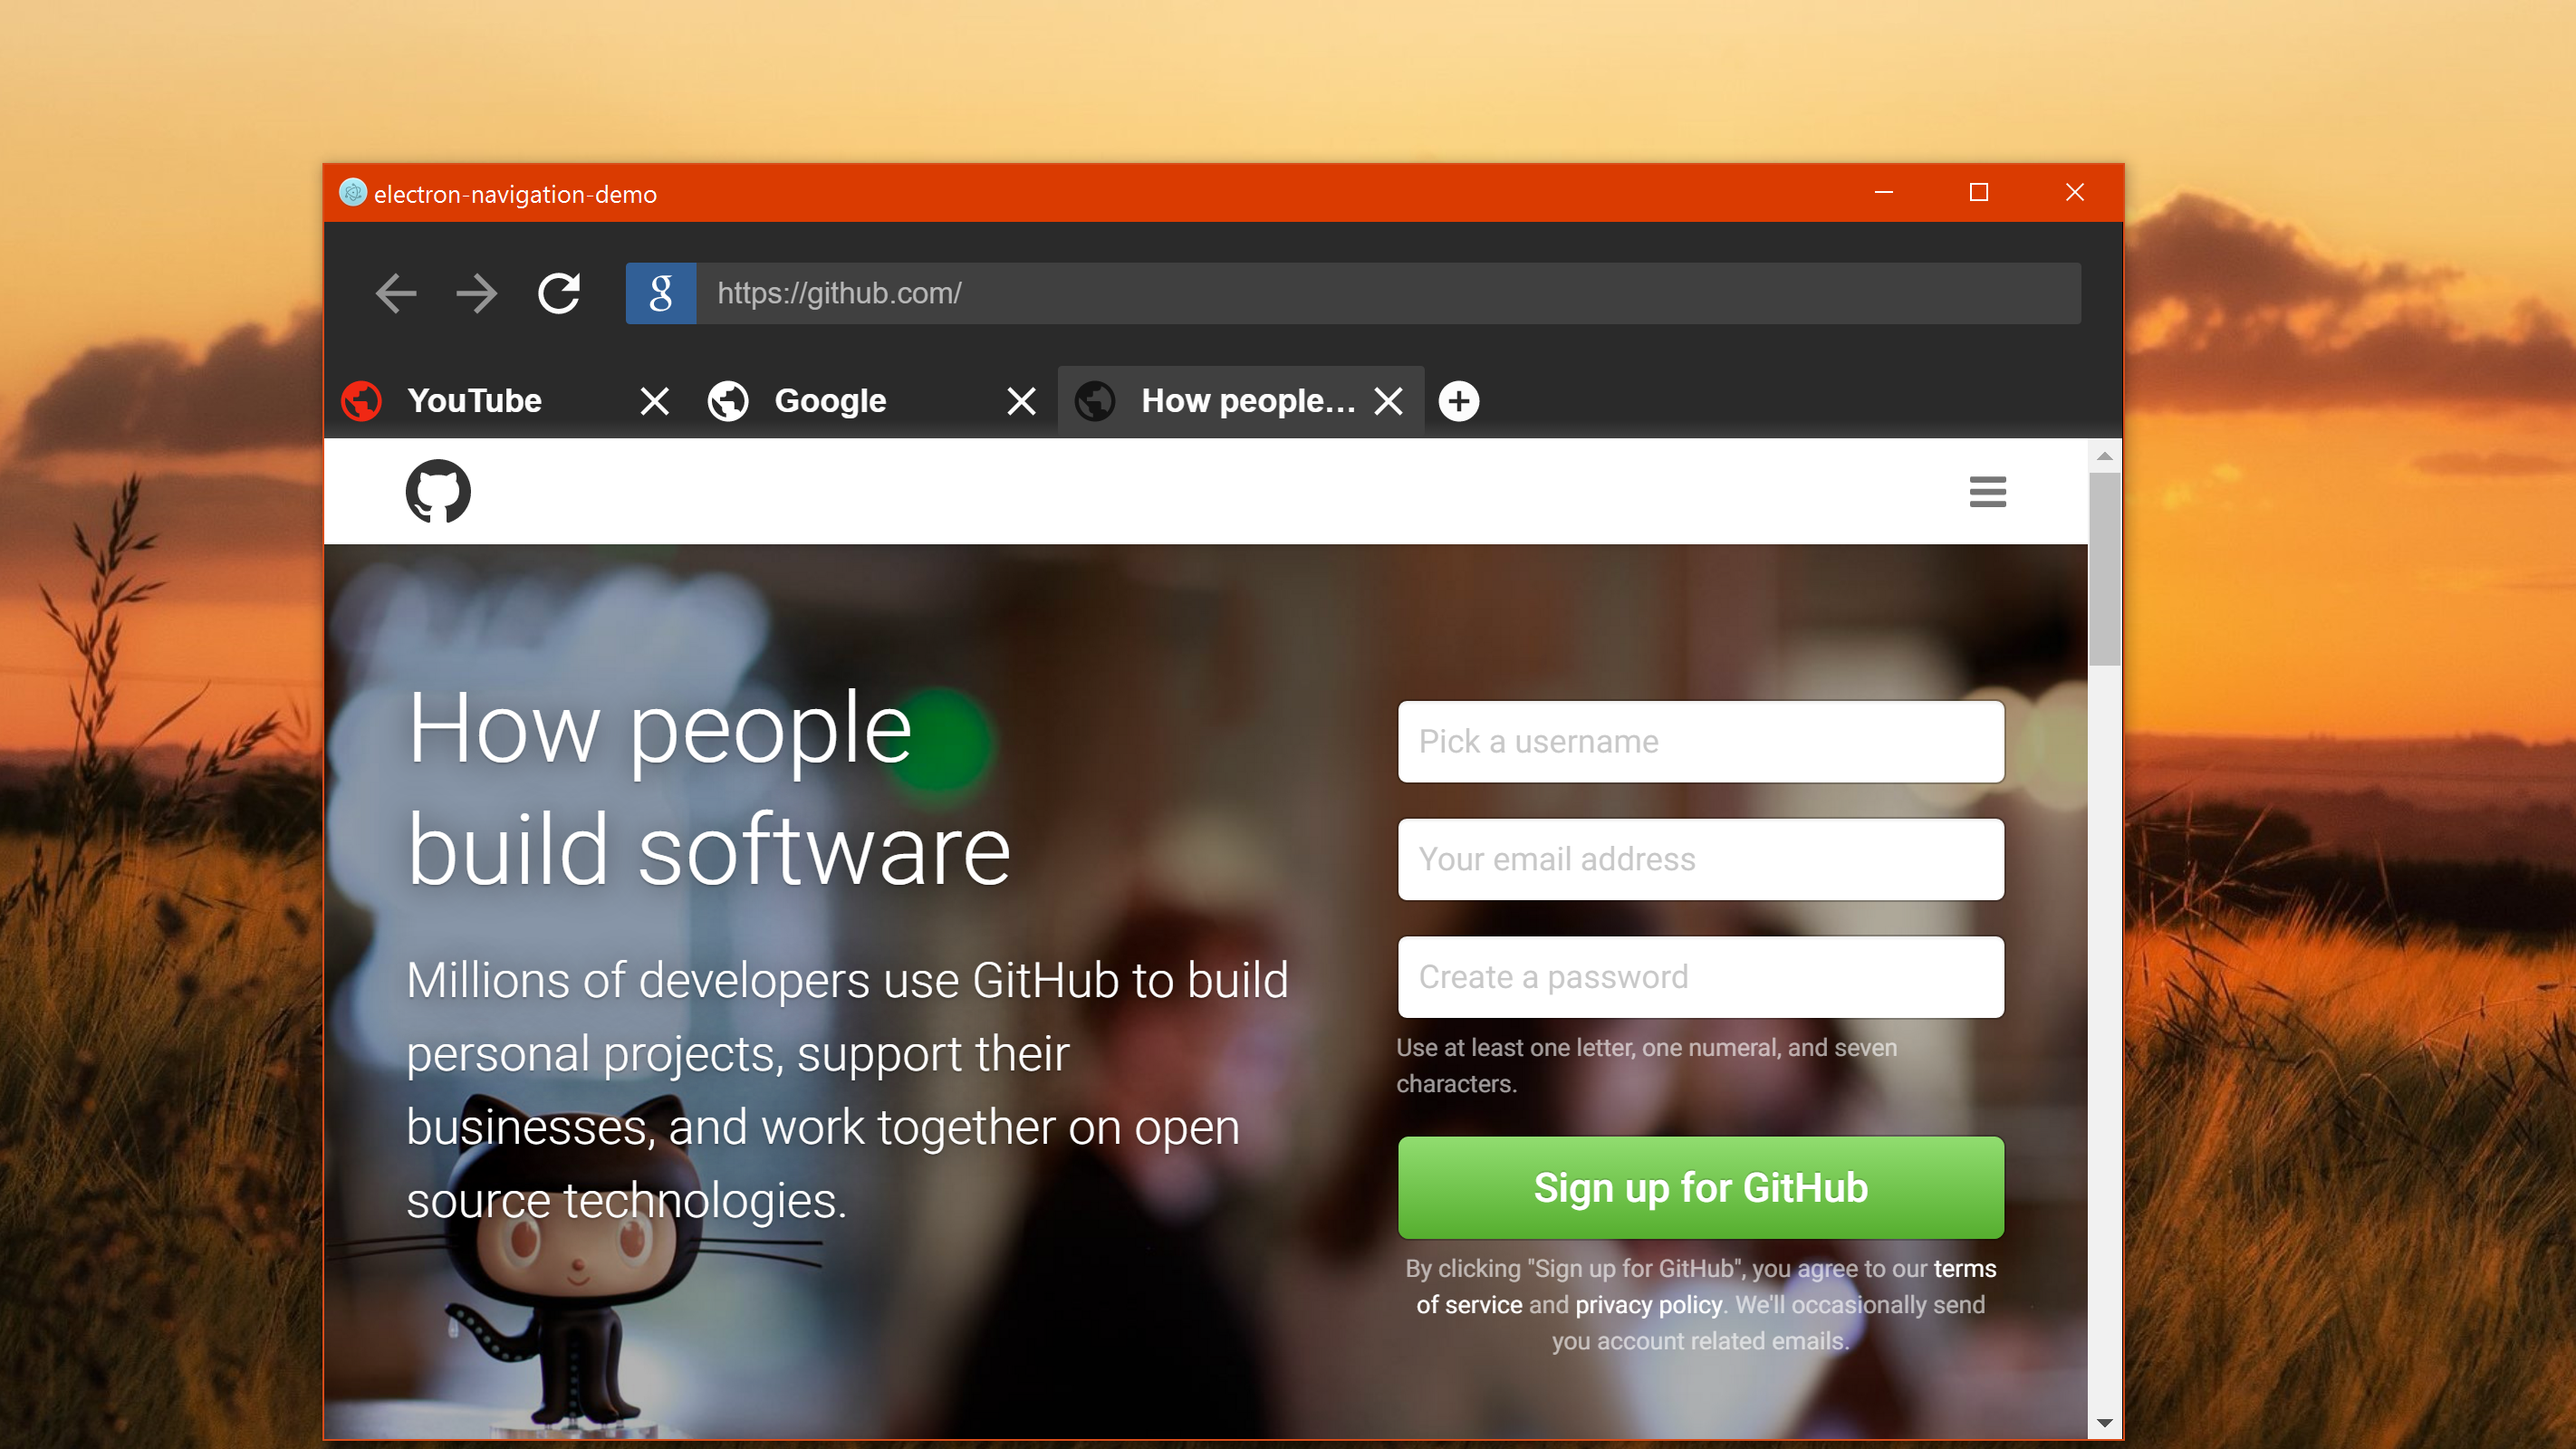
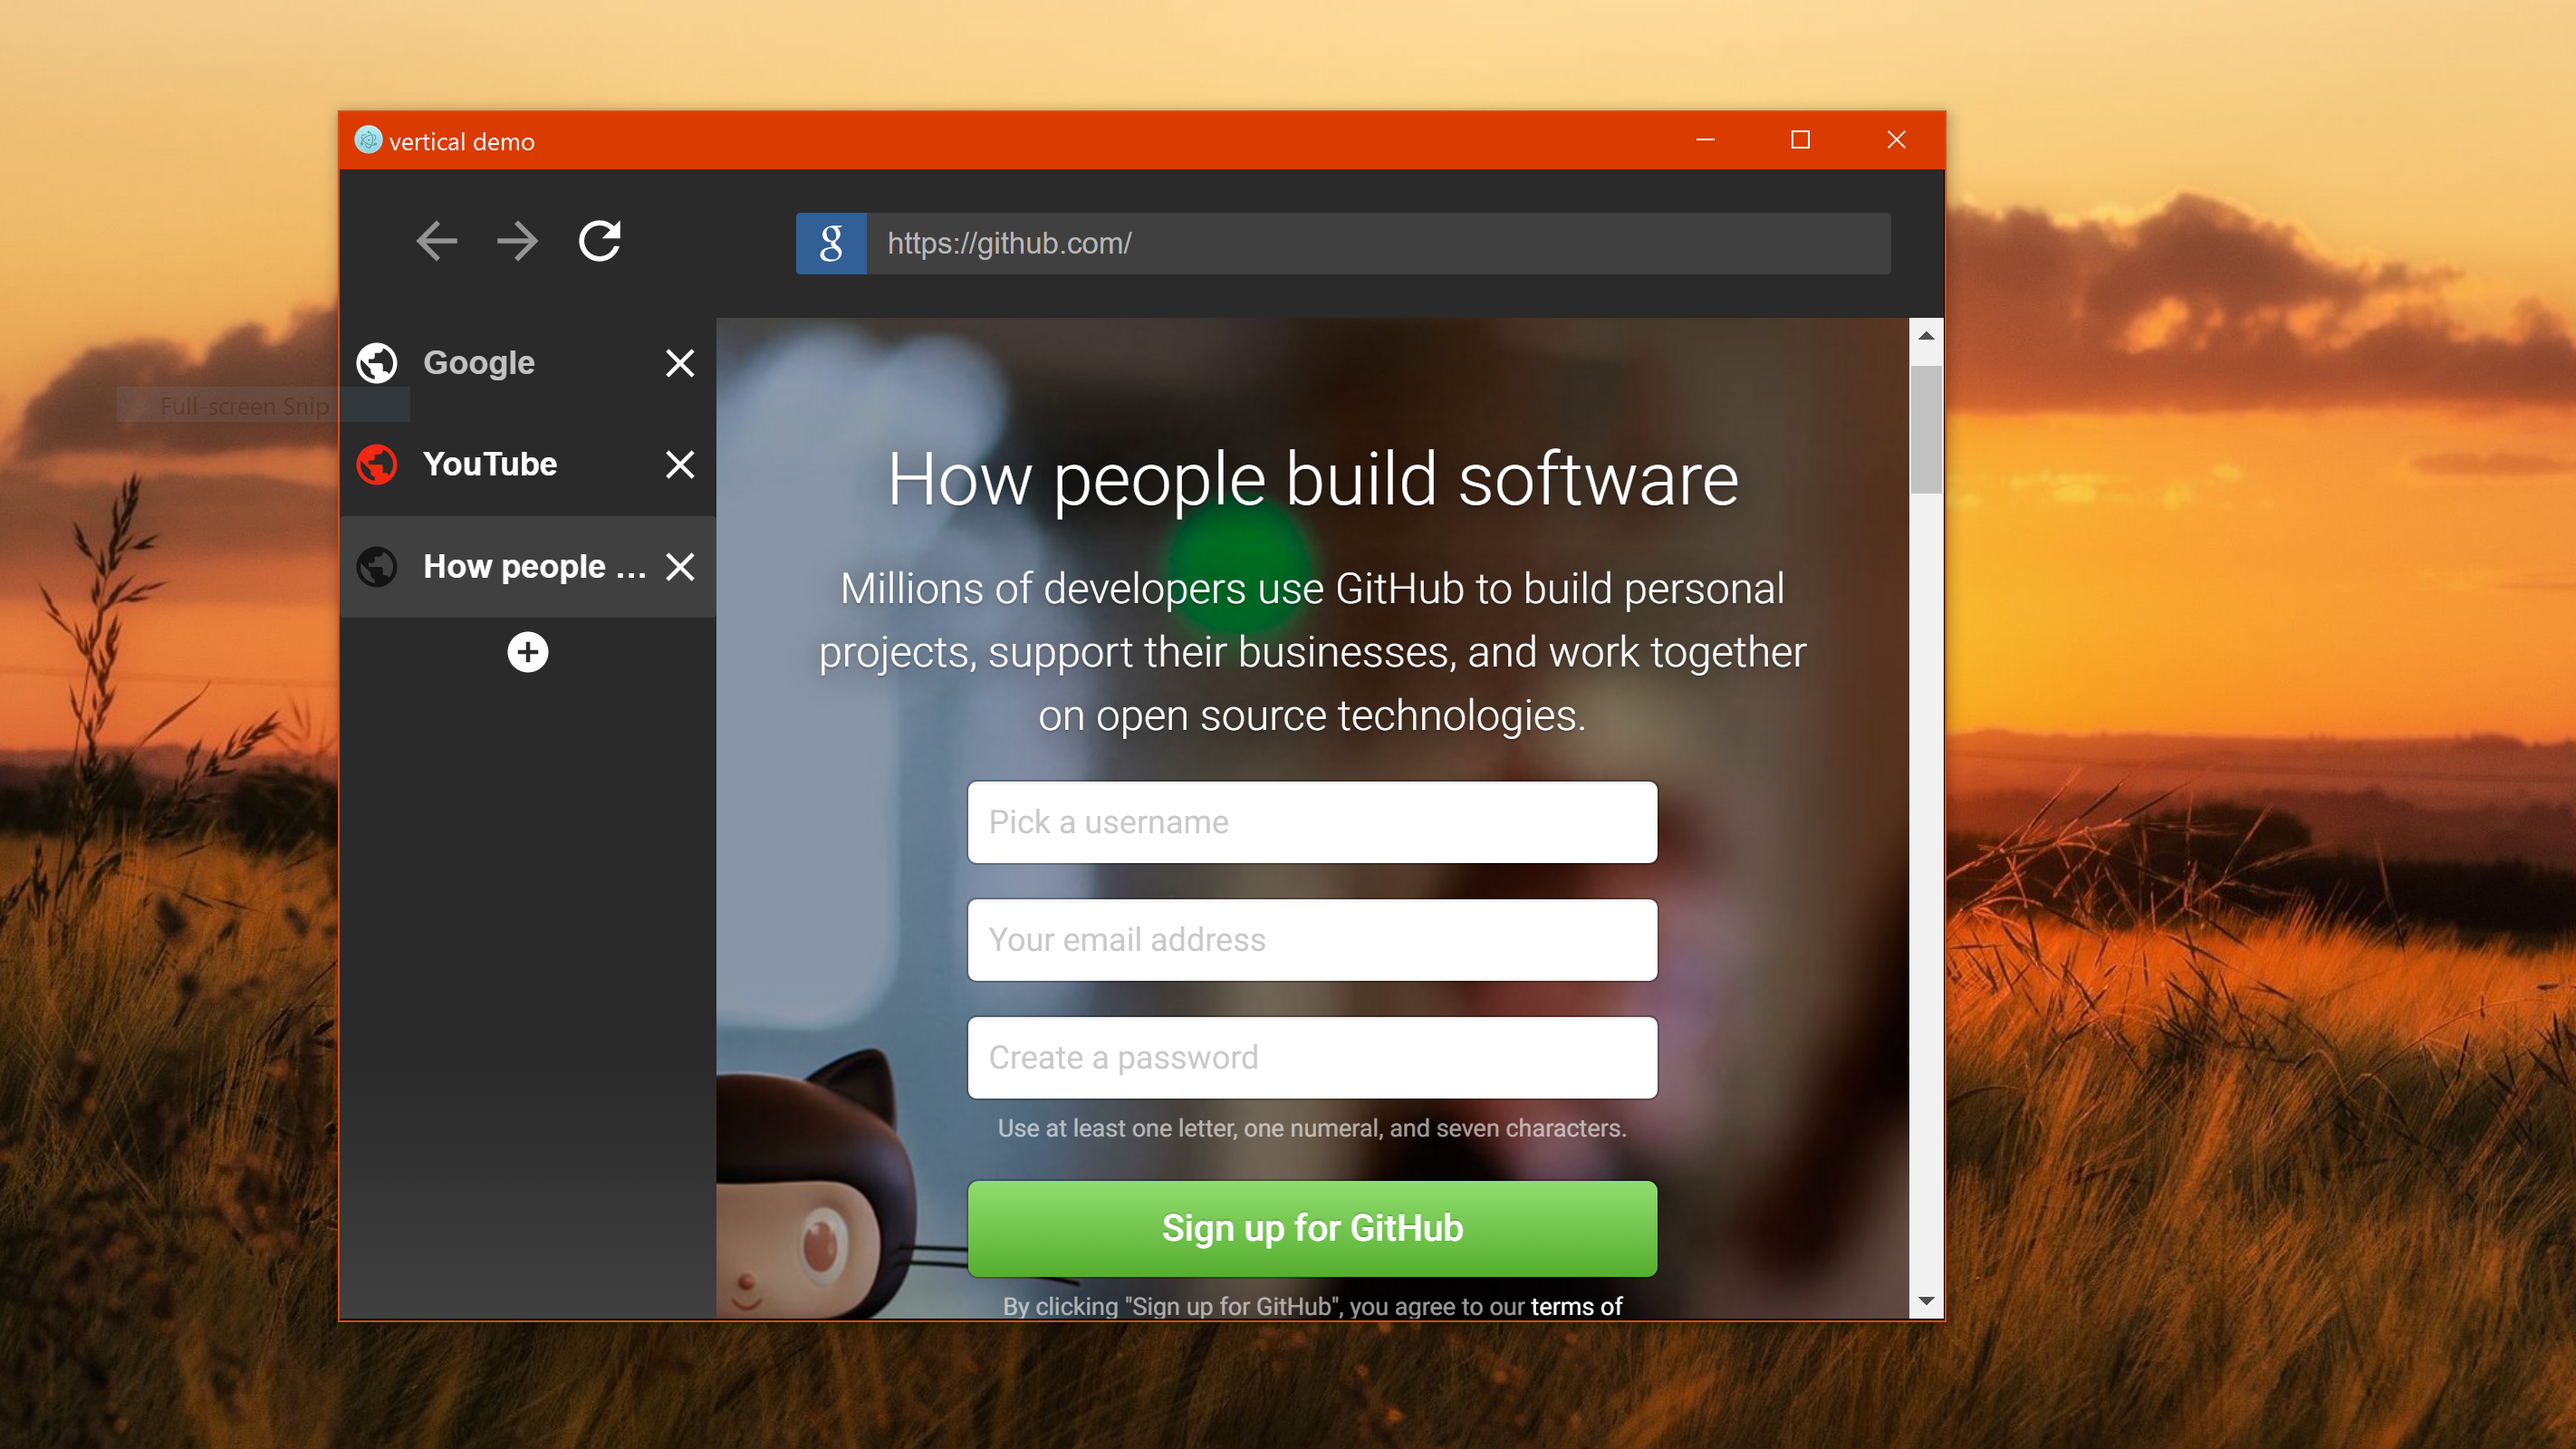
updated demos

diff --git a/test/demo-dark.html b/test/demo-dark.html
@@ -1,0 +1,84 @@
+<!DOCTYPE html>
+<html>
+<head>
+    <style>
+        html,
+        body {
+            margin: 0;
+            padding: 0;
+            width: 100%;
+            height: 100%;
+            display: flex;
+        }
+        aside {
+                background-color: #2a2a2a;
+                display: flex;
+                flex-direction: column;
+                width: 185px;
+                align-items: center;
+                z-index: 1;
+        }
+        #nav-body-tabs {
+            flex: 1;
+            width: 100%;
+        }
+        #nav-body-views {
+            margin-top: 73px;
+        }
+        #nav-ctrls-url {
+            flex: none!important;
+            width: 90%;
+        }
+        .nav-tabs-tab {
+            height: 50px!important;
+        }
+        header {
+            position: absolute;
+            height: 73px;
+            display: flex;
+            justify-content: center;
+            align-items: center;
+            background-color: #2a2a2a;
+            left: 0;
+            right: 0;
+            box-sizing: border-box;
+            padding-left: 190px;
+        }
+    </style>
+    <link rel="stylesheet" type="text/css" href="../themes/material-dark.css">
+</head>
+
+<body>
+    
+    <header>
+        <!-- manually moving the url bar here. -->
+        <input id="nav-ctrls-url"/>
+    </header>
+
+    <aside>
+        <div id="nav-body-ctrls">
+            <!-- address -->
+        </div>
+        <div id="nav-body-tabs">
+            <!-- tabs -->
+        </div>
+    </aside>
+
+    <div id="nav-body-views">
+        <!-- view -->
+    </div>
+    
+    <script>
+        /* development */
+        var eNavigation = require('../index.js');
+        var nav = new eNavigation({showUrlBar: false, verticalTabs: true});
+
+        /* production
+            var eNavigation = require('electron-navigation');
+            var nav = new eNavigation();
+        */
+    </script>
+
+</body>
+
+</html>

diff --git a/test/demo.js b/test/demo.js
@@ -3,21 +3,21 @@ const {
     BrowserWindow
 } = require('electron');
 
-let win;
+let demoLight;
+let demoDark;
 
 app.on('ready', () => {
 
-    win = new BrowserWindow({
-        width: 800,
-        height: 600
-    });
+    demoLight = new BrowserWindow();
+    demoLight.setTitle('horizontal demo');
+    demoLight.setMenu(null);
+    demoLight.loadURL('file://' + __dirname + '/demo-light.html');
+    demoLight.on('close', () => {demoLight = null;});
 
-    win.setMenu(null);
-
-    win.loadURL('file://' + __dirname + '/demo.html');
-
-    win.on('closed', () => {
-        win = null;
-    });
+    demoDark = new BrowserWindow();
+    demoDark.setTitle('vertical demo');
+    demoDark.setMenu(null);
+    demoDark.loadURL('file://' + __dirname + '/demo-dark.html');
+    demoDark.on('close', () => {demoDark = null;});
 
 });

diff --git a/test/demo-light.html b/test/demo-light.html
@@ -1,7 +1,6 @@
-<!doctype html>
+<!DOCTYPE html>
 <html>
 <head>
-    <title>electron-navigation-demo</title>
     <style>
         html,
         body {
@@ -13,7 +12,7 @@
             flex-direction: column;
         }
     </style>
-    <link rel="stylesheet" type="text/css" href="../themes/material-dark.css">
+    <link rel="stylesheet" type="text/css" href="../themes/material-light.css">
 </head>
 
 <body>
@@ -29,11 +28,11 @@
     <script>
         /* development */
         var eNavigation = require('../index.js');
-        var eNav = new eNavigation();
+        var nav = new eNavigation();
 
         /* production
             var eNavigation = require('electron-navigation');
-            var eNav = new eNavigation();
+            var nav = new eNavigation();
         */
     </script>
 </body>

diff --git a/README.md b/README.md
@@ -225,6 +225,8 @@ git clone https://github.com/simply-coded/electron-navigation.git
 
 ### History
 ---
+* 1.0.5
+    * `ADD` - vertical demo as displayed in the previews.
 * 1.0.4
 	* `CHANGE` - updated demo files for developers, and added more to the **README.md**.
 * 1.0.3
